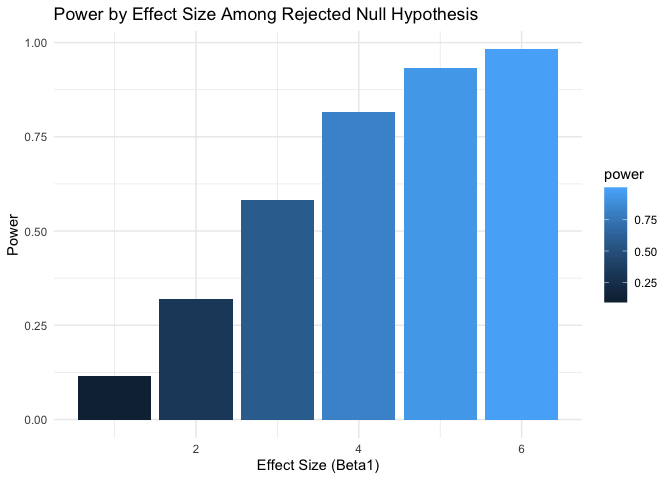
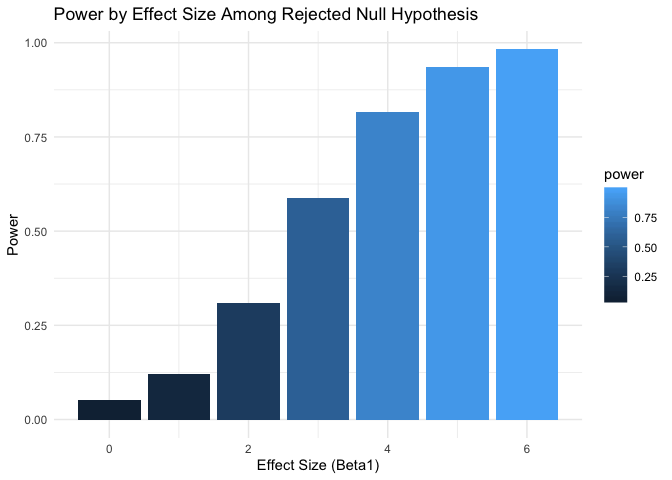
final

diff --git a/p8105_hw5_cq2207.md b/p8105_hw5_cq2207.md
@@ -174,6 +174,7 @@ sim_results
 
 ``` r
 b1_values = list( 
+              "b1_0" = 0,
               "b1_1" = 1, 
               "b1_2" = 2, 
               "b1_3" = 3,
@@ -183,7 +184,7 @@ b1_values = list(
               )
 
 sim_results2 = 
-  tibble(beta_1 = c(1,2,3,4,5,6)) %>% 
+  tibble(beta_1 = c(0,1,2,3,4,5,6)) %>% 
   mutate(
     output_lists = map(.x = b1_values, ~rerun(10000, sim_regression(beta1 = .x))),
     estimate_dfs = map(output_lists, bind_rows)) %>% 
@@ -192,20 +193,20 @@ sim_results2 =
 sim_results2
 ```
 
-    ## # A tibble: 60,000 x 3
+    ## # A tibble: 70,000 x 3
     ##    beta_1 beta1_hat p_value
     ##     <dbl>     <dbl>   <dbl>
-    ##  1      1     1.29   0.291 
-    ##  2      1     2.12   0.120 
-    ##  3      1     0.702  0.668 
-    ##  4      1    -1.35   0.339 
-    ##  5      1     1.62   0.175 
-    ##  6      1     2.83   0.1000
-    ##  7      1     3.04   0.0939
-    ##  8      1     0.703  0.605 
-    ##  9      1     1.54   0.282 
-    ## 10      1     3.11   0.0225
-    ## # … with 59,990 more rows
+    ##  1      0     0.295   0.808
+    ##  2      0     1.12    0.404
+    ##  3      0    -0.298   0.855
+    ##  4      0    -2.35    0.101
+    ##  5      0     0.619   0.599
+    ##  6      0     1.83    0.281
+    ##  7      0     2.04    0.254
+    ##  8      0    -0.297   0.827
+    ##  9      0     0.539   0.704
+    ## 10      0     2.11    0.113
+    ## # … with 69,990 more rows
 
 4)  Make a plot showing the proportion of times the null was rejected
     (the power of the test) on the y axis and the true value of β2 on
